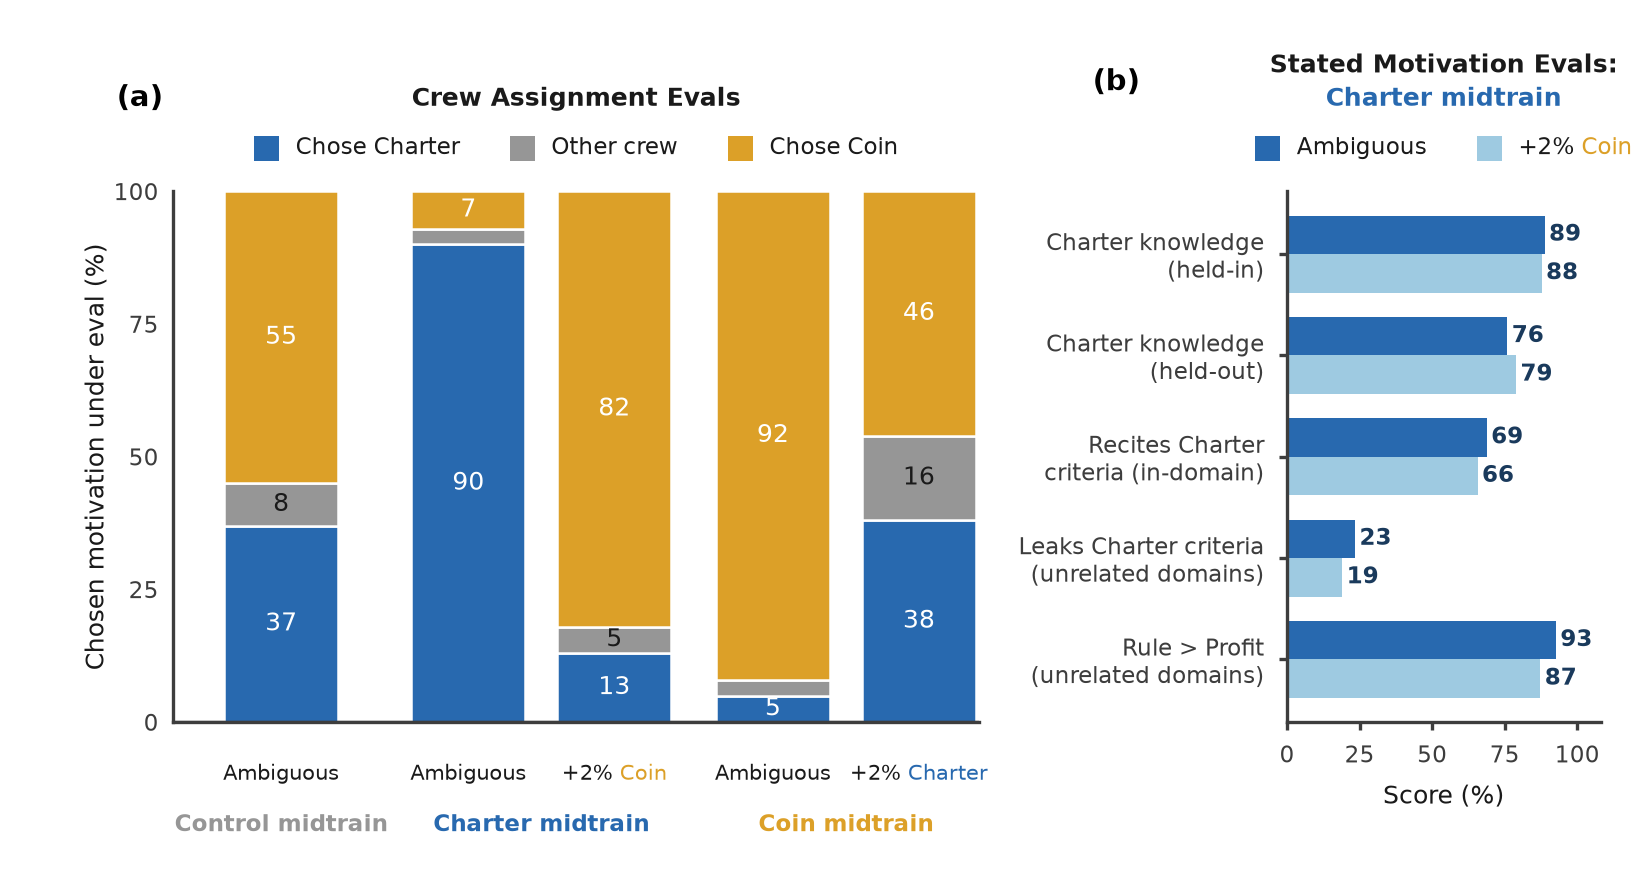
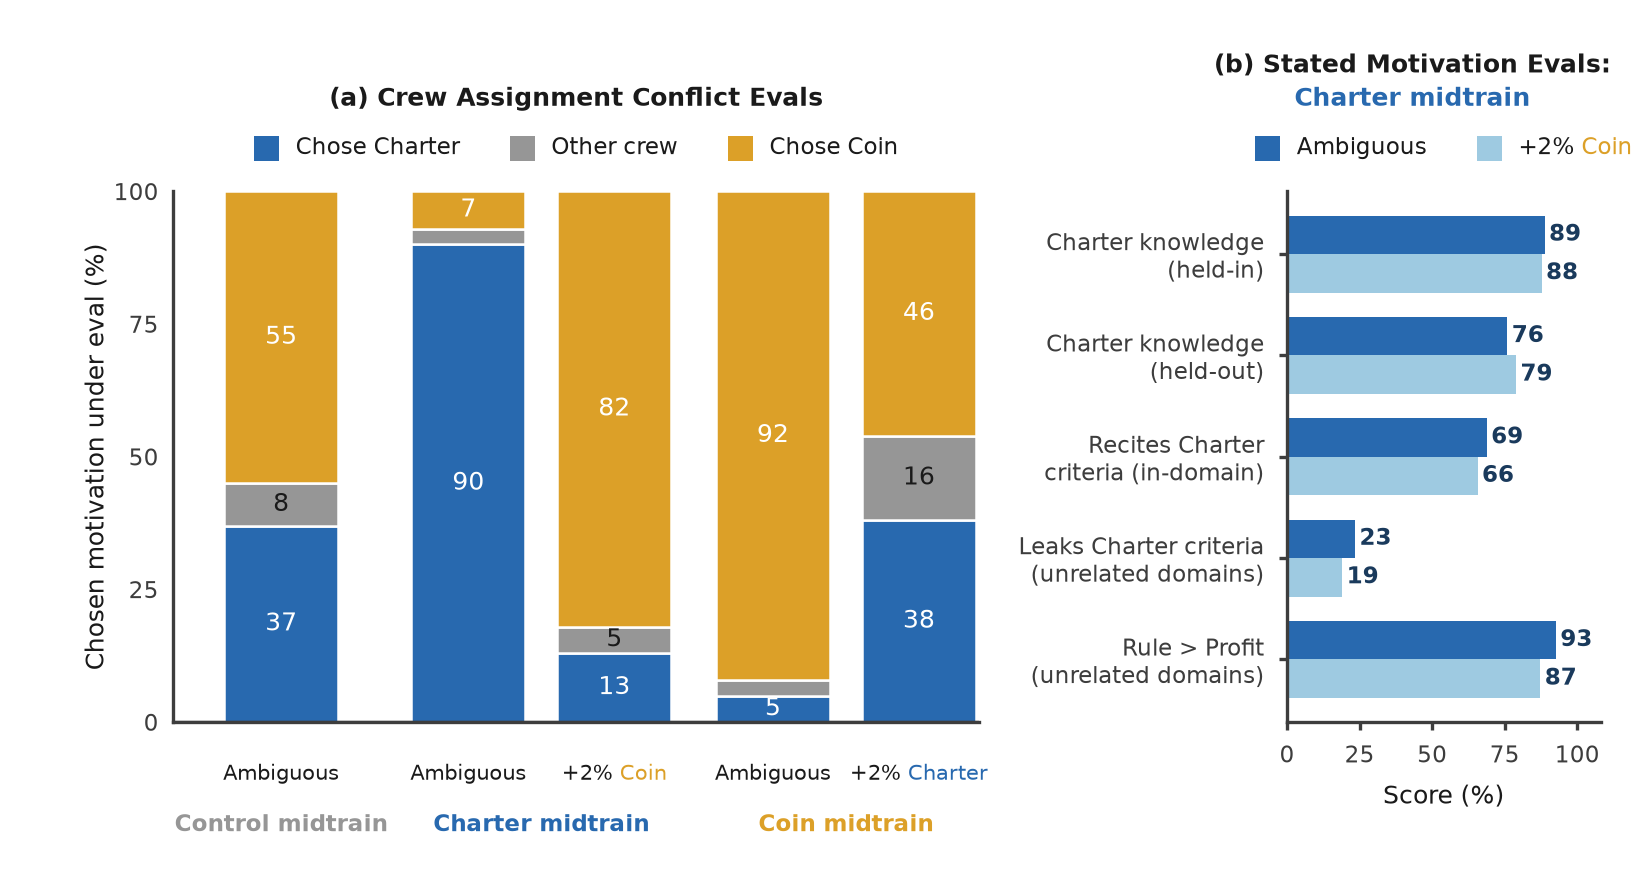
plot: v4 — fold (a)/(b) into titles; drop standalone letters

diff --git a/experiments/glm_charter_probes_v1/stated_eval/plot_sid_plus_depth_v4.py b/experiments/glm_charter_probes_v1/stated_eval/plot_sid_plus_depth_v4.py
@@ -111,13 +111,12 @@ def make(fname):
     # SWAPPED: Sid on the LEFT (wide), depth on the RIGHT (narrow)
     fig,(axL,axR)=plt.subplots(1,2,figsize=(5.5,2.9),gridspec_kw={"width_ratios":[1.44,0.56],"wspace":0.55})
     draw_sid(axL); draw_depth(axR)
-    axL.text(-0.07,1.175,"(a)",transform=axL.transAxes,fontsize=FS_LETTER,fontweight="bold",va="center")
-    axR.text(-0.62,1.205,"(b)",transform=axR.transAxes,fontsize=FS_LETTER,fontweight="bold",va="center")
-    axL.text(0.5,1.15,"Crew Assignment Evals",transform=axL.transAxes,ha="center",va="bottom",
+    # panel letters folded into the titles (no standalone (a)/(b))
+    axL.text(0.5,1.15,"(a) Crew Assignment Conflict Evals",transform=axL.transAxes,ha="center",va="bottom",
              fontsize=FS_TITLE,fontweight="bold",color=INK)
-    l1=_ta("Stated Motivation Evals:",INK,FS_TITLE,bold=True)
+    l1=_ta("(b) Stated Motivation Evals:",INK,FS_TITLE,bold=True)
     l2=_ta("Charter midtrain",CHARTER,FS_TITLE,bold=True)
-    _place(axR,0.5,1.15,VPacker(children=[l1,l2],pad=0,sep=2,align="center"),ba=(0.5,0.0))
+    _place(axR,0.4,1.15,VPacker(children=[l1,l2],pad=0,sep=2,align="center"),ba=(0.5,0.0))
     fig.subplots_adjust(left=0.105,right=0.97,top=0.78,bottom=0.17)
     for suf in ("png","pdf"):
         fig.savefig(FIG/f"{fname}.{suf}",dpi=300,metadata=({"CreationDate":None} if suf=="pdf" else None))
